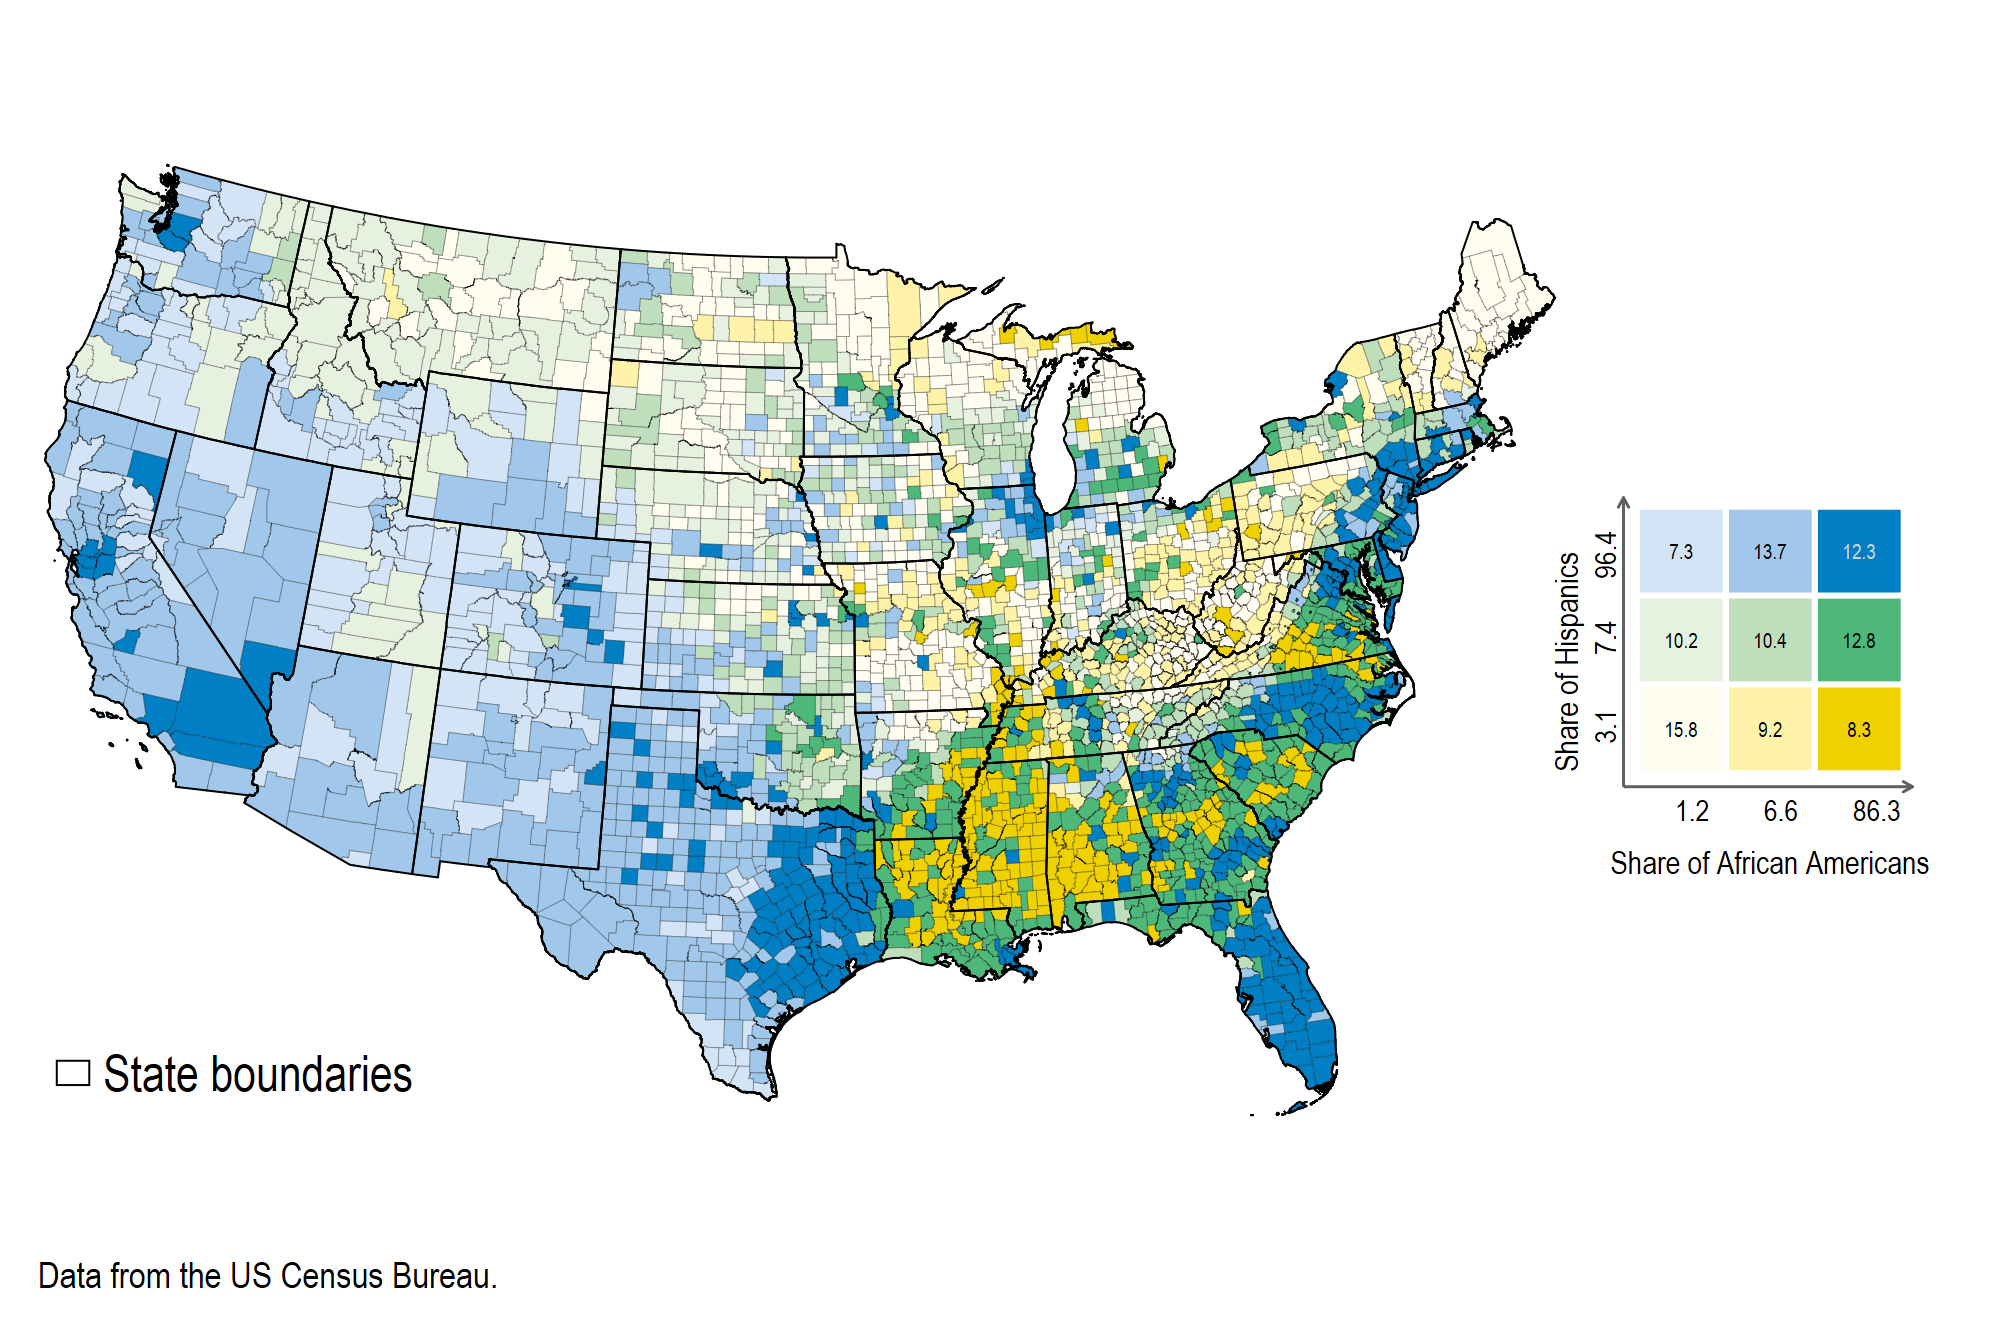
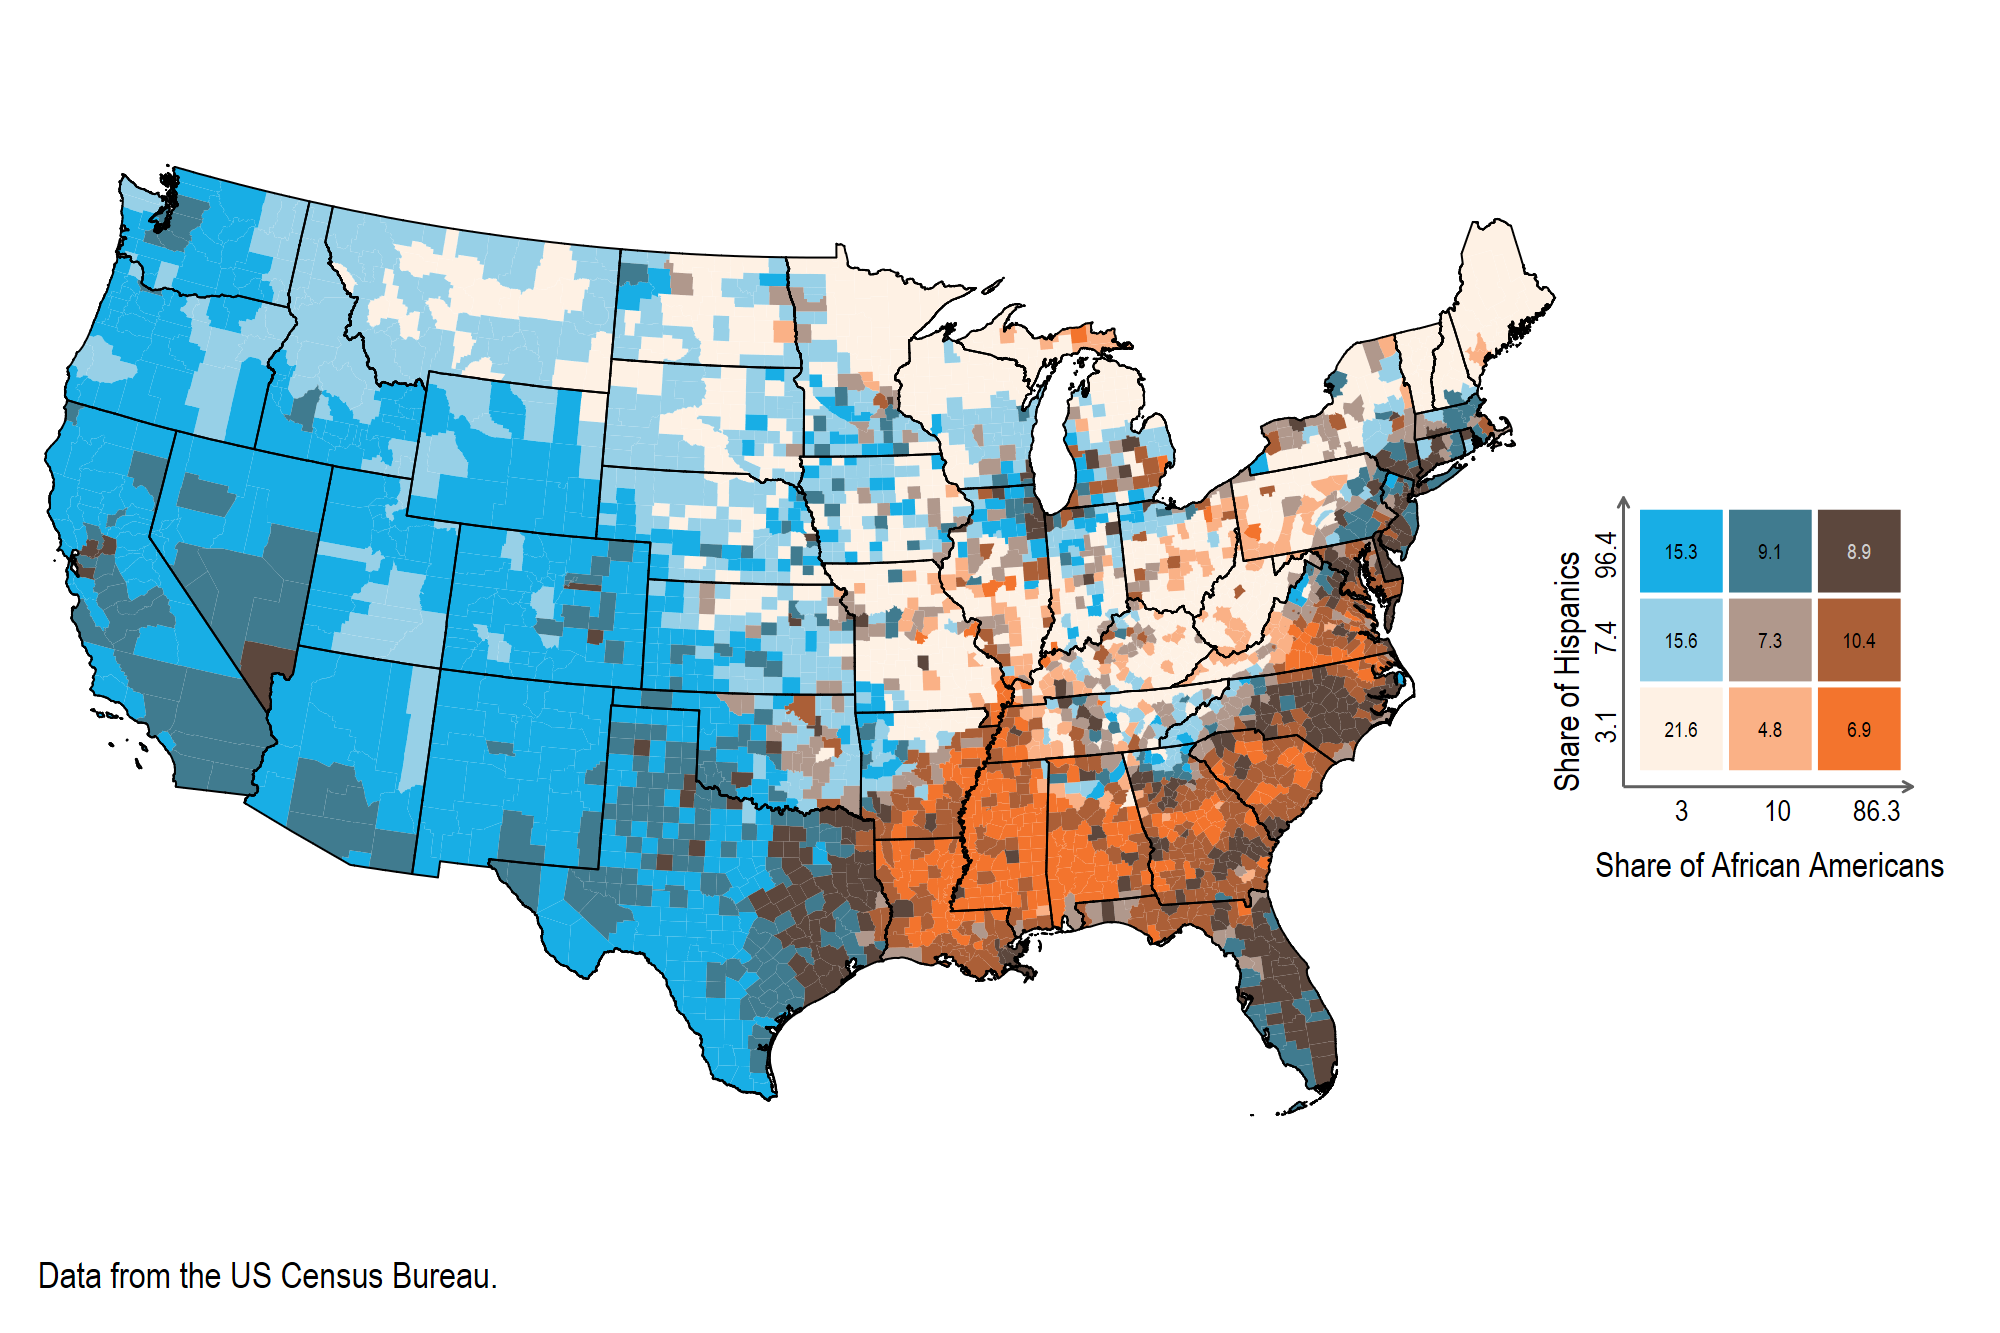
v1.4 fixes

diff --git a/README.md b/README.md
@@ -245,7 +245,22 @@ bimap share_hisp share_afam using usa_county_shp_clean, cut(custom) cuty(3 10) c
 		 polygon(data("usa_state_shp_clean") ocolor(black) osize(0.2)) 
 ```
 
+<img src="/figures/bimap9.png" height="500">
+
+
+
+If we define only one custom cut-off, the other will automatically take on the pctile values:
+
+```
+bimap share_hisp share_afam using usa_county_shp_clean, cut(custom) cutx(3 10)  palette(orangeblue)    ///
+		 note("Data from the US Census Bureau.") ///	
+		 texty("Share of Hispanics") textx("Share of African Americans") texts(3.5) textlabs(3) values percent  ///
+		 ocolor() osize(none) ///
+		 polygon(data("usa_state_shp_clean") ocolor(black) osize(0.2)) 
+```
+
 <img src="/figures/bimap10.png" height="500">
+
 
 Cut-off's can be formatted as follows:
 
@@ -257,10 +272,9 @@ bimap share_hisp share_afam using usa_county_shp_clean, cut(custom) cuty(3 10) f
 		 polygon(data("usa_state_shp_clean") ocolor(black) osize(0.2)) 
 ```
 
-
 <img src="/figures/bimap11.png" height="500">
 
-We can now also pass `spmap` legend options to `bimap` to describe additional layers:
+`spmap` legend options can be passed to `bimap` to describe additional layers:
 
 
 ```
@@ -272,7 +286,7 @@ bimap share_hisp share_afam using usa_county_shp_clean, cut(pctile) palette(cens
 		 showleg legenda(off) legend(pos(7) size(5)) legstyle(2) 
 ```
 
-<img src="/figures/bimap10.png" height="500">
+<img src="/figures/bimap12.png" height="500">
 
 
 
